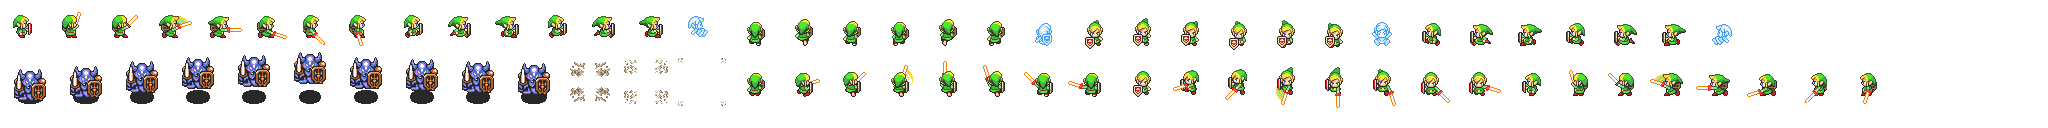
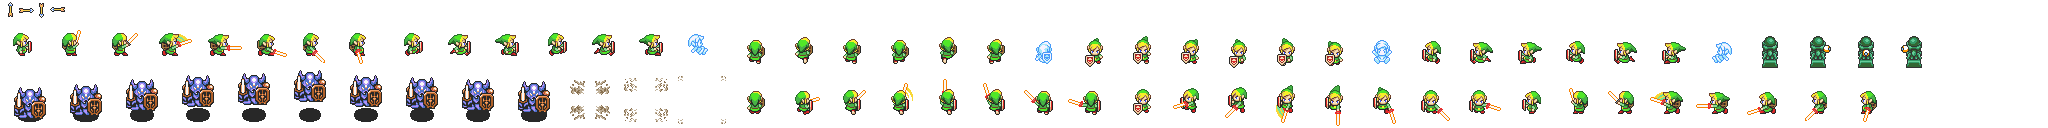
enemies with different movements

Changed region(s): [[0.0, 0.0312, 0.9375, 0.9688]]

diff --git a/core/src/com/mygdx/mygame/Sprites/Enemies/Armos.java b/core/src/com/mygdx/mygame/Sprites/Enemies/Armos.java
@@ -4,6 +4,7 @@ import com.badlogic.gdx.graphics.g2d.Animation;
 import com.badlogic.gdx.graphics.g2d.Batch;
 import com.badlogic.gdx.graphics.g2d.TextureRegion;
 
+import com.badlogic.gdx.maps.MapObject;
 import com.badlogic.gdx.math.Vector2;
 import com.badlogic.gdx.physics.box2d.BodyDef;
 import com.badlogic.gdx.physics.box2d.CircleShape;
@@ -24,8 +25,18 @@ public class Armos extends Enemy{
     private boolean setToDestroy;
     private boolean destroyed;
     private float deathTimer;
-    public Armos(PlayScreen screen, float x, float y) {
-        super(screen, x, y);
+    public Armos(PlayScreen screen, MapObject object) {
+        super(screen, object);
+        if(object.getProperties().containsKey("moving_north"))
+            velocity = new Vector2(0,1);
+        else if(object.getProperties().containsKey("moving_east"))
+            velocity = new Vector2(1,0);
+        else if(object.getProperties().containsKey("moving_south"))
+            velocity = new Vector2(0,-1);
+        else velocity = new Vector2(0,1);
+
+        maxHealth = 100;
+        health = 100;
         frames = new Array<TextureRegion>();
         for(int i = 0; i < 10; i++)
             frames.add(new TextureRegion(screen.getAtlas().findRegion("armos"), i*56, 0, 56, 56));
@@ -46,11 +57,12 @@ public class Armos extends Enemy{
     public void update(float dt){
         stateTime +=dt;
         if(setToDestroy && !destroyed&&deathTimer > 0.4f){
-            world.destroyBody(b2body);
+
             destroyed = true;
             stateTime = 0;
         }
         if(setToDestroy && !destroyed){
+            world.destroyBody(b2body);
             deathTimer+=dt;
             setRegion(deathAnimation.getKeyFrame(deathTimer, false));
         }
@@ -70,7 +82,7 @@ public class Armos extends Enemy{
         b2body.setLinearDamping(30.0f);
         FixtureDef fdef = new FixtureDef();
         CircleShape shape = new CircleShape();
-        shape.setRadius(22 / MyGame.PPM);
+        shape.setRadius(20 / MyGame.PPM);
         fdef.filter.categoryBits = MyGame.ENEMY_BIT;
         fdef.filter.maskBits = MyGame.BORDER_BIT |
                 MyGame.BUSH_BIT|

diff --git a/core/src/com/mygdx/mygame/Sprites/Enemies/Enemy.java b/core/src/com/mygdx/mygame/Sprites/Enemies/Enemy.java
@@ -5,6 +5,9 @@ import com.badlogic.gdx.graphics.Color;
 import com.badlogic.gdx.graphics.Texture;
 import com.badlogic.gdx.graphics.g2d.Batch;
 import com.badlogic.gdx.graphics.g2d.Sprite;
+import com.badlogic.gdx.maps.MapObject;
+import com.badlogic.gdx.maps.objects.RectangleMapObject;
+import com.badlogic.gdx.math.Rectangle;
 import com.badlogic.gdx.math.Vector2;
 import com.badlogic.gdx.physics.box2d.Body;
 import com.badlogic.gdx.physics.box2d.World;
@@ -20,17 +23,18 @@ public abstract class Enemy extends Sprite{
     protected PlayScreen screen;
     public Body b2body;
     public Vector2 velocity;
+    protected MapObject object;
     protected int maxHealth;
     protected int health;
     private Texture blank;
-    public Enemy(PlayScreen screen, float x, float y){
+    public Enemy(PlayScreen screen, MapObject object){
         this.world = screen.getWorld();
         this.screen = screen;
-        setPosition(x, y);
+        this.object = object;
+        Rectangle rect = ((RectangleMapObject) object).getRectangle();
+        setPosition(rect.getX()/MyGame.PPM, rect.getY()/MyGame.PPM);
         defineEnemy();
-        velocity = new Vector2(0,-1);
-        maxHealth = 100;
-        health = 100;
+
         blank = new Texture("blank.png");
     }
     public abstract void update(float dt);

diff --git a/core/src/com/mygdx/mygame/Tools/B2WorldCreator.java b/core/src/com/mygdx/mygame/Tools/B2WorldCreator.java
@@ -31,7 +31,16 @@ public class B2WorldCreator {
         Body body;
         //Obstacle
         for(MapObject object: map.getLayers().get(2).getObjects().getByType(RectangleMapObject.class)){
-            new Obstacle(screen, object);
+            Rectangle rect = ((RectangleMapObject) object).getRectangle();
+
+            bdef.type = BodyDef.BodyType.StaticBody;
+            bdef.position.set((rect.getX() + rect.getWidth() / 2) / MyGame.PPM, (rect.getY() + rect.getHeight() / 2) / MyGame.PPM);
+
+            body = world.createBody(bdef);
+
+            shape.setAsBox((rect.getWidth() / 2)/MyGame.PPM, (rect.getHeight() / 2)/MyGame.PPM);
+            fdef.shape = shape;
+            body.createFixture(fdef);
         }
         //Border Trees
         for(MapObject object: map.getLayers().get(5).getObjects().getByType(RectangleMapObject.class)){
@@ -55,7 +64,7 @@ public class B2WorldCreator {
         for(MapObject object: map.getLayers().get(3).getObjects().getByType(RectangleMapObject.class)){
             Rectangle rect = ((RectangleMapObject) object).getRectangle();
 
-            knights.add(new Armos(screen, rect.getX()/MyGame.PPM, rect.getY()/MyGame.PPM));
+            knights.add(new Armos(screen, object));
         }
     }
 

diff --git a/core/src/com/mygdx/mygame/Tools/WorldContactListener.java b/core/src/com/mygdx/mygame/Tools/WorldContactListener.java
@@ -37,12 +37,14 @@ public class WorldContactListener implements ContactListener{
                 }
                 break;
             case MyGame.ENEMY_BIT | MyGame.OBSTACLE_BIT:
+            case MyGame.ENEMY_BIT | MyGame.ENEMY_BIT:
+            case MyGame.ENEMY_BIT | MyGame.BUSH_BIT:
             case MyGame.ENEMY_BIT | MyGame.BORDER_BIT:
                 if(fixA.getFilterData().categoryBits == MyGame.ENEMY_BIT) {
-                    ((Enemy) fixA.getUserData()).reverseVelocity(false, true);
+                    ((Enemy) fixA.getUserData()).reverseVelocity(true, true);
                 }
                 else {
-                    ((Enemy) fixB.getUserData()).reverseVelocity(false, true);
+                    ((Enemy) fixB.getUserData()).reverseVelocity(true, true);
                 }
                 break;
             case MyGame.SWORD_BIT | MyGame.ENEMY_BIT:

diff --git a/core/src/com/mygdx/mygame/Sprites/Link.java b/core/src/com/mygdx/mygame/Sprites/Link.java
@@ -320,13 +320,6 @@ public class Link extends Sprite{
 
         fdef.shape = shape;
         b2body.createFixture(fdef).setUserData(this);
-
-        EdgeShape head = new EdgeShape();
-        head.set(new Vector2(-7/MyGame.PPM, 7 / MyGame.PPM), new Vector2( 7 / MyGame.PPM, 7 / MyGame.PPM));
-        fdef.filter.categoryBits = MyGame.LINK_HEAD_BIT;
-        fdef.shape = head;
-        fdef.isSensor = true;
-        b2body.createFixture(fdef).setUserData(this);
     }
     public void slash(int direction){
         sword = new Sword(screen, b2body.getPosition().x, b2body.getPosition().y, direction);

diff --git a/core/src/com/mygdx/mygame/Sprites/InteractiveTileObject.java b/core/src/com/mygdx/mygame/Sprites/InteractiveTileObject.java
@@ -46,7 +46,7 @@ public abstract class InteractiveTileObject {
         bdef.position.set((bounds.getX()+bounds.getWidth() /2) / MyGame.PPM, (bounds.getY() + bounds.getHeight() / 2) / MyGame.PPM);
         body = world.createBody(bdef);
 
-        shape.setAsBox((bounds.getWidth()/2)/MyGame.PPM, (bounds.getHeight()/2)/MyGame.PPM);
+        shape.setAsBox((bounds.getWidth()/4)/MyGame.PPM, (bounds.getHeight()/4)/MyGame.PPM);
         fdef.shape = shape;
         fixture = body.createFixture(fdef);
     }

diff --git a/core/src/com/mygdx/mygame/MyGame.java b/core/src/com/mygdx/mygame/MyGame.java
@@ -17,10 +17,10 @@ public class MyGame extends Game {
 	public static final short LINK_BIT = 2;
 	public static final short BUSH_BIT = 4;
 	public static final short DESTROYED_BIT = 8;
-	public static final short LINK_HEAD_BIT = 16;
+	public static final short INVINCIBILITY_BIT = 16;
 	public static final short OBSTACLE_BIT = 32;
 	public static final short ENEMY_BIT = 64;
-	public static final short INVINCIBILITY_BIT = 128;
+
 	public static final short SWORD_BIT = 512;
 
 	public SpriteBatch batch;
